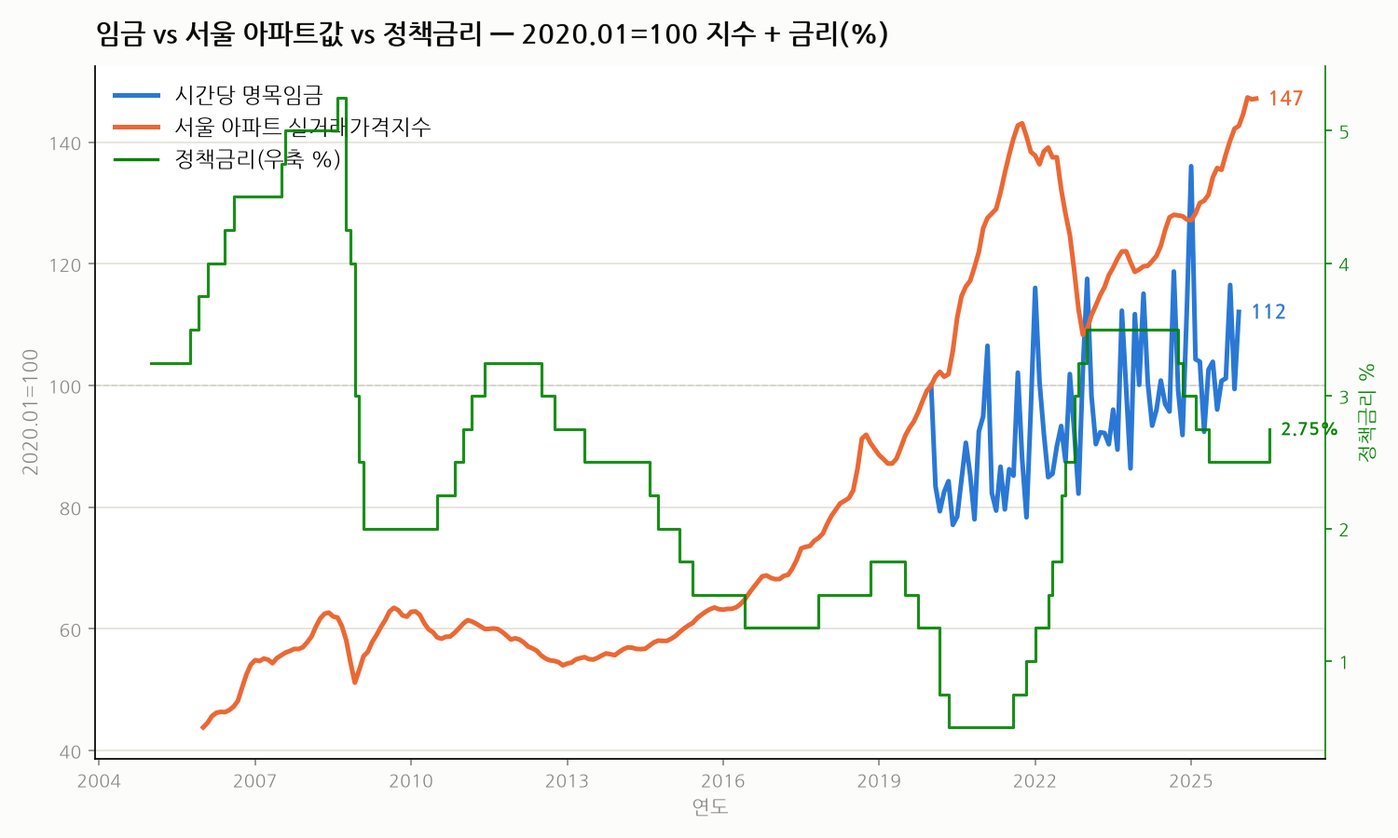
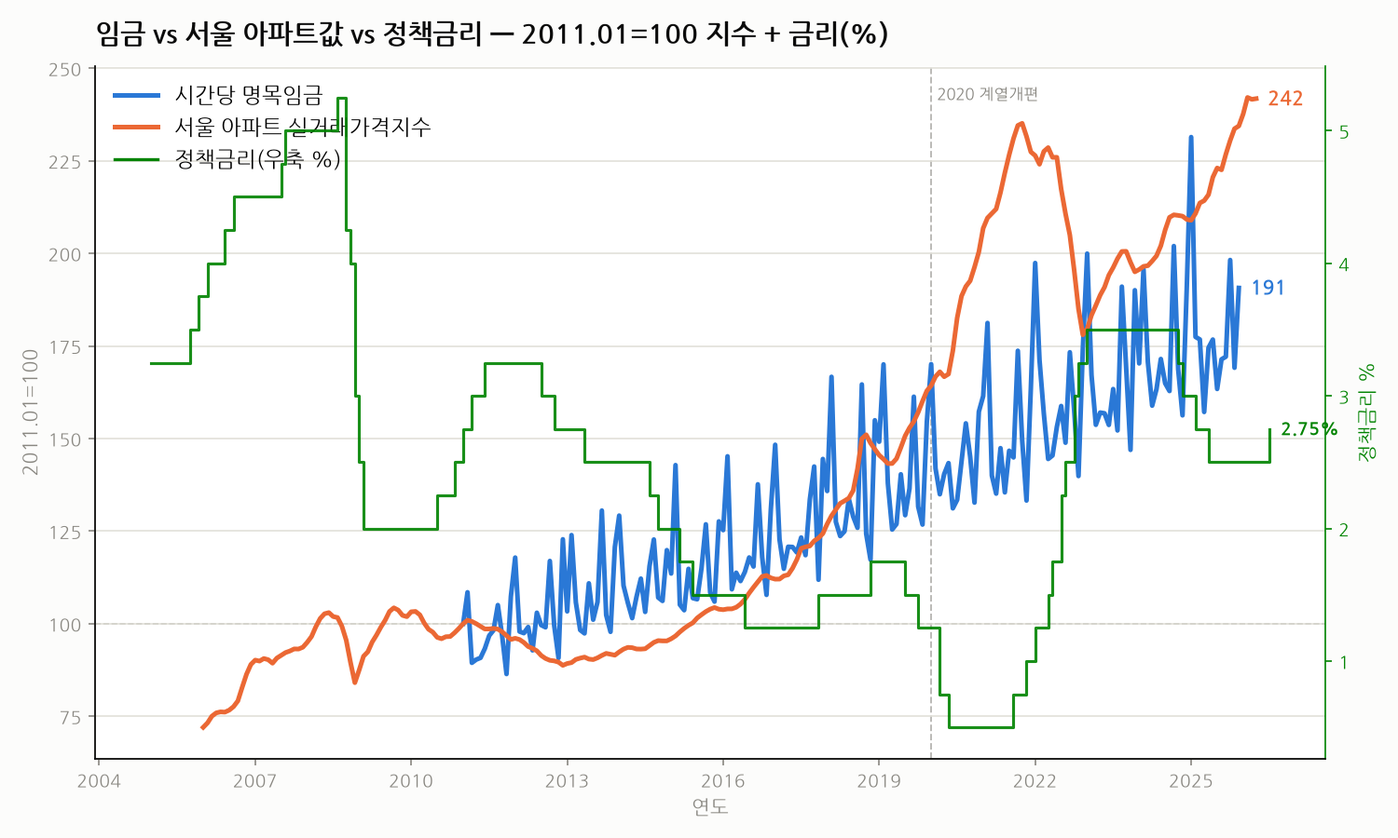
Extend wage back to 2011 (old KOSIS series) + mobile readability
임금 월별을 2011.1까지 확장하고 모바일 가독성을 개선.

- fetch_live.py: 임금 PAY/HRS URL을 여러 쌍(접미사 없음·2·3…)으로 받아 병합.
  신계열 DT_118N_MON051(2020~) + 구계열 DT_118N_MON041(2011~2019, 9차분류)로
  data/hourly_wage_monthly.csv 를 2011.01~2025.12(180개월)로 확장.
  ※ 2020년 표준산업분류 개편으로 구/신계열 수준 단절 있음(2019 ~21.5k → 2020 ~26k).
- build_charts.py: 임금 패널·지수비교 차트에 2020 계열개편 세로 점선 표시(_wage_break).
- chart.html: WAGE_M 2011~ 인라인 교체. makeMonthly/makeMonthlyMulti에 계열개편 마커
  지원. 히어로·임금패널에 2020 마커. 모바일(<640px)에서 히어로를 compact(작은 viewBox)로
  렌더해 글씨 확대, resize 시 재렌더. KPI·부제·범례·방법론을 2011~/계열단절 기준으로 갱신.
- README: 임금 커버리지·재수집 URL(구/신계열 2쌍) 갱신.

Claude-Session: https://claude.ai/code/session_012tRiB47oDk42VAh8iypbF1

diff --git a/wage_housing_rate/chart.html b/wage_housing_rate/chart.html
@@ -148,12 +148,12 @@
     <div>
       <p class="eyebrow">월별 실측 · KOSIS 원자료</p>
       <h1>시간당 임금 · 서울 아파트 실거래가격지수 · 정책금리</h1>
-      <p class="lede">세 지표를 <b>월별 실측치</b>로. 월별 임금 공식통계가 시작된 <b>2020년 1월 이후</b>,
+      <p class="lede">세 지표를 <b>월별 실측치</b>로. 공통 기준월 <b>2020년 1월(=100)</b> 대비,
         서울 아파트 실거래가격지수는 <b>+47%</b> 오른 반면 시간당 명목임금은 <b>+12%</b>에 그쳤습니다.
         그 사이 정책금리는 0.50%까지 내렸다가 3.50%까지 올랐습니다.</p>
       <p class="lede" style="margin-top:8px;font-size:13.5px;color:var(--muted)">
         최신월: 아파트 실거래가격지수 <b>2026.4</b> · 시간당 임금 <b>2025.12</b> · 기준금리 <b>2026.7</b>(2.75%).
-        월별 임금 공식통계는 <b>2020.1부터</b> 제공돼, 그 이전 구간은 비워 두었습니다.</p>
+        시간당 임금은 <b>2011.1부터</b> 표시하되, 2020년 산업분류 개편으로 <b>계열 단절(2019↔2020)</b>이 있어 표시해 둡니다.</p>
     </div>
     <button class="theme-btn" id="themeBtn" aria-label="테마 전환">
       <span id="themeIcon">◐</span><span id="themeTxt">테마</span>
@@ -167,7 +167,7 @@
     <p class="note">임금·아파트는 공통 출발선(2020.1=100, 왼쪽 축)에 놓아 상대 상승폭을 비교. 아파트는 그 이전(2006~)도 함께 표시돼 100 아래에서 시작합니다.
       단위가 다른 <b>정책금리는 오른쪽 축(%)</b>에 겹쳐 그렸습니다 — 2020~2021 저금리기에 집값이 급등한 흐름이 보입니다.</p>
     <div class="legend">
-      <span><i style="background:var(--wage)"></i>시간당 명목임금 (2020.1~, 좌)</span>
+      <span><i style="background:var(--wage)"></i>시간당 명목임금 (2011.1~, 좌)</span>
       <span><i style="background:var(--apt)"></i>서울 아파트 실거래가격지수 (2006.1~, 좌)</span>
       <span><i style="background:var(--rate)"></i>정책금리 (%, 우)</span>
     </div>
@@ -188,9 +188,9 @@
     <div class="card prose" style="margin-top:12px">
       <h3>지표 정의</h3>
       <ul>
-        <li><b>시간당 명목임금</b> — KOSIS 사업체노동력조사(<code>DT_118N_MON051</code>) 전산업·전규모(1인이상)의
-          <b>전체 임금총액 ÷ 전체 근로시간</b>(원/시간, <b>월별</b>). 임금총액에 상여·특별급여가 포함돼
-          1월·분기말 등 상여 지급월은 값이 크게 튑니다(계절성).</li>
+        <li><b>시간당 명목임금</b> — KOSIS 사업체노동력조사 전산업·전규모(1인이상)의 <b>전체 임금총액 ÷ 전체 근로시간</b>
+          (원/시간, <b>월별</b>). 2011~2019=구계열 <code>DT_118N_MON041</code>(9차분류), 2020~=신계열 <code>DT_118N_MON051</code>(10차분류)
+          — <b>2020년 개편으로 수준 단절</b>(차트에 세로선 표시). 임금총액에 상여·특별급여가 포함돼 상여 지급월은 값이 크게 튑니다(계절성).</li>
         <li><b>서울 아파트 실거래가격지수</b> — 한국부동산원 아파트 매매 실거래가격지수·서울
           (<code>DT_KAB_11672_S1</code>, <b>2017.11 = 100</b>, <b>월별</b>). 평균가(억원)가 아니라 지수입니다.</li>
         <li><b>정책금리</b> — 한국은행 <b>기준금리</b>(%). 변경 이력으로 구성한 <b>월말 유효금리</b>
@@ -201,9 +201,8 @@
         Artifact는 런타임 CSV 로드가 막혀 있어 값은 이 페이지에 인라인 임베드했습니다.</p>
       <h3>유의 사항</h3>
       <ul>
-        <li><b>월별 커버리지가 지표마다 다릅니다.</b> 시간당 임금 월별 공식통계는 <b>2020.1부터</b>,
-          아파트 실거래가격지수는 2006.1부터, 기준금리는 2005.1부터 제공됩니다.
-          받지 못한 구간은 <b>추정하지 않고 그대로 비워</b> 두었습니다.</li>
+        <li><b>월별 커버리지가 지표마다 다릅니다.</b> 시간당 임금은 <b>2011.1부터</b>(구계열 2011~2019 + 신계열 2020~),
+          아파트 실거래가격지수는 2006.1부터, 기준금리는 2005.1부터. 받지 못한 구간은 <b>추정하지 않고 그대로 비워</b> 두었습니다.</li>
         <li>지수 비교(히어로)는 두 계열이 모두 존재하는 <b>2020.1을 100</b>으로 맞춥니다.
           아파트는 2006~2019 구간도 함께 그려 100 아래에서 시작합니다.</li>
         <li>임금은 <b>명목</b>(물가 미반영)이며, 상여 포함으로 월 변동이 큽니다. 추세는 12개월 흐름으로 보세요.</li>
@@ -212,21 +211,22 @@
       <h3>출처 (KOSIS OpenAPI)</h3>
       <ul>
         <li>한국부동산원 아파트 매매 실거래가격지수 — <code>DT_KAB_11672_S1</code> (orgId 408, 서울, 월)</li>
-        <li>고용노동부 사업체노동력조사 임금총액·근로시간 — <code>DT_118N_MON051</code> (orgId 118, 전산업·전규모, 월)</li>
+        <li>고용노동부 사업체노동력조사 임금총액·근로시간 — <code>DT_118N_MON051</code>(2020~)·<code>DT_118N_MON041</code>(2011~2019), 전산업·전규모, 월</li>
         <li>한국은행 기준금리 변경 이력 (월말 유효금리)</li>
       </ul>
     </div>
   </details>
 
-  <footer>세 지표 월별 라인 차트 · 값은 KOSIS OpenAPI 월별 실측치(임금 2020.1~, 아파트 지수 2006.1~, 기준금리 2005.1~) · 인과 아닌 추세 비교용</footer>
+  <footer>세 지표 월별 라인 차트 · 값은 KOSIS OpenAPI 월별 실측치(임금 2011.1~, 아파트 지수 2006.1~, 기준금리 2005.1~) · 인과 아닌 추세 비교용</footer>
 </div>
 
 <script>
 // 월별 실측 (KOSIS OpenAPI, 인라인 임베드 — Artifact CSP상 런타임 CSV 로드 불가)
 // APT_M: 부동산원 아파트 매매 실거래가격지수·서울 (2017.11=100), 2006.01~2026.04
-// WAGE_M: 사업체노동력조사 전산업·전규모(1인이상) 시간당 임금 = 전체임금총액/전체근로시간(원/시간), 2020.01~2025.12
+// WAGE_M: 사업체노동력조사 전산업·전규모 시간당 임금(=전체임금총액/전체근로시간, 원/시간), 2011.01~2025.12
+// (2011~2019=구계열 9차분류, 2020~=신계열 10차분류. 2020 개편으로 수준 단절 있음)
 const APT_M  = [[2006.0000,58.47,"2006.01"],[2006.0833,59.45,"2006.02"],[2006.1667,60.92,"2006.03"],[2006.2500,61.64,"2006.04"],[2006.3333,61.87,"2006.05"],[2006.4167,61.81,"2006.06"],[2006.5000,62.24,"2006.07"],[2006.5833,63.01,"2006.08"],[2006.6667,64.26,"2006.09"],[2006.7500,67.26,"2006.10"],[2006.8333,70.13,"2006.11"],[2006.9167,72.26,"2006.12"],[2007.0000,73.21,"2007.01"],[2007.0833,73.00,"2007.02"],[2007.1667,73.56,"2007.03"],[2007.2500,73.31,"2007.04"],[2007.3333,72.54,"2007.05"],[2007.4167,73.66,"2007.06"],[2007.5000,74.27,"2007.07"],[2007.5833,74.86,"2007.08"],[2007.6667,75.21,"2007.09"],[2007.7500,75.67,"2007.10"],[2007.8333,75.64,"2007.11"],[2007.9167,76.04,"2007.12"],[2008.0000,77.11,"2008.01"],[2008.0833,78.38,"2008.02"],[2008.1667,80.54,"2008.03"],[2008.2500,82.34,"2008.04"],[2008.3333,83.38,"2008.05"],[2008.4167,83.63,"2008.06"],[2008.5000,82.76,"2008.07"],[2008.5833,82.55,"2008.08"],[2008.6667,80.67,"2008.09"],[2008.7500,77.61,"2008.10"],[2008.8333,72.69,"2008.11"],[2008.9167,68.26,"2008.12"],[2009.0000,71.06,"2009.01"],[2009.0833,74.06,"2009.02"],[2009.1667,75.04,"2009.03"],[2009.2500,77.18,"2009.04"],[2009.3333,78.72,"2009.05"],[2009.4167,80.44,"2009.06"],[2009.5000,81.97,"2009.07"],[2009.5833,83.89,"2009.08"],[2009.6667,84.68,"2009.09"],[2009.7500,84.18,"2009.10"],[2009.8333,83.02,"2009.11"],[2009.9167,82.74,"2009.12"],[2010.0000,83.81,"2010.01"],[2010.0833,83.89,"2010.02"],[2010.1667,83.13,"2010.03"],[2010.2500,81.34,"2010.04"],[2010.3333,79.98,"2010.05"],[2010.4167,79.34,"2010.06"],[2010.5000,78.20,"2010.07"],[2010.5833,77.90,"2010.08"],[2010.6667,78.34,"2010.09"],[2010.7500,78.39,"2010.10"],[2010.8333,79.20,"2010.11"],[2010.9167,80.15,"2010.12"],[2011.0000,81.20,"2011.01"],[2011.0833,81.96,"2011.02"],[2011.1667,81.69,"2011.03"],[2011.2500,81.20,"2011.04"],[2011.3333,80.62,"2011.05"],[2011.4167,80.03,"2011.06"],[2011.5000,80.05,"2011.07"],[2011.5833,80.16,"2011.08"],[2011.6667,80.01,"2011.09"],[2011.7500,79.40,"2011.10"],[2011.8333,78.60,"2011.11"],[2011.9167,77.73,"2011.12"],[2012.0000,78.00,"2012.01"],[2012.0833,77.73,"2012.02"],[2012.1667,77.08,"2012.03"],[2012.2500,76.19,"2012.04"],[2012.3333,75.79,"2012.05"],[2012.4167,75.25,"2012.06"],[2012.5000,74.22,"2012.07"],[2012.5833,73.57,"2012.08"],[2012.6667,73.17,"2012.09"],[2012.7500,73.04,"2012.10"],[2012.8333,72.77,"2012.11"],[2012.9167,72.06,"2012.12"],[2013.0000,72.46,"2013.01"],[2013.0833,72.66,"2013.02"],[2013.1667,73.36,"2013.03"],[2013.2500,73.65,"2013.04"],[2013.3333,73.87,"2013.05"],[2013.4167,73.44,"2013.06"],[2013.5000,73.33,"2013.07"],[2013.5833,73.71,"2013.08"],[2013.6667,74.24,"2013.09"],[2013.7500,74.68,"2013.10"],[2013.8333,74.48,"2013.11"],[2013.9167,74.30,"2013.12"],[2014.0000,75.01,"2014.01"],[2014.0833,75.62,"2014.02"],[2014.1667,76.00,"2014.03"],[2014.2500,75.94,"2014.04"],[2014.3333,75.65,"2014.05"],[2014.4167,75.63,"2014.06"],[2014.5000,75.70,"2014.07"],[2014.5833,76.39,"2014.08"],[2014.6667,77.10,"2014.09"],[2014.7500,77.49,"2014.10"],[2014.8333,77.43,"2014.11"],[2014.9167,77.43,"2014.12"],[2015.0000,77.89,"2015.01"],[2015.0833,78.51,"2015.02"],[2015.1667,79.39,"2015.03"],[2015.2500,80.17,"2015.04"],[2015.3333,80.84,"2015.05"],[2015.4167,81.39,"2015.06"],[2015.5000,82.45,"2015.07"],[2015.5833,83.18,"2015.08"],[2015.6667,83.85,"2015.09"],[2015.7500,84.39,"2015.10"],[2015.8333,84.74,"2015.11"],[2015.9167,84.38,"2015.12"],[2016.0000,84.27,"2016.01"],[2016.0833,84.44,"2016.02"],[2016.1667,84.45,"2016.03"],[2016.2500,84.79,"2016.04"],[2016.3333,85.49,"2016.05"],[2016.4167,86.52,"2016.06"],[2016.5000,87.92,"2016.07"],[2016.5833,89.18,"2016.08"],[2016.6667,90.38,"2016.09"],[2016.7500,91.56,"2016.10"],[2016.8333,91.78,"2016.11"],[2016.9167,91.24,"2016.12"],[2017.0000,90.97,"2017.01"],[2017.0833,90.98,"2017.02"],[2017.1667,91.68,"2017.03"],[2017.2500,91.93,"2017.04"],[2017.3333,93.35,"2017.05"],[2017.4167,95.26,"2017.06"],[2017.5000,97.72,"2017.07"],[2017.5833,98.04,"2017.08"],[2017.6667,98.24,"2017.09"],[2017.7500,99.35,"2017.10"],[2017.8333,100.00,"2017.11"],[2017.9167,100.96,"2017.12"],[2018.0000,103.07,"2018.01"],[2018.0833,104.87,"2018.02"],[2018.1667,106.21,"2018.03"],[2018.2500,107.58,"2018.04"],[2018.3333,108.13,"2018.05"],[2018.4167,108.73,"2018.06"],[2018.5000,110.40,"2018.07"],[2018.5833,115.17,"2018.08"],[2018.6667,121.76,"2018.09"],[2018.7500,122.63,"2018.10"],[2018.8333,120.81,"2018.11"],[2018.9167,119.46,"2018.12"],[2019.0000,118.15,"2019.01"],[2019.0833,117.29,"2019.02"],[2019.1667,116.31,"2019.03"],[2019.2500,116.32,"2019.04"],[2019.3333,117.39,"2019.05"],[2019.4167,119.82,"2019.06"],[2019.5000,122.39,"2019.07"],[2019.5833,124.15,"2019.08"],[2019.6667,125.54,"2019.09"],[2019.7500,127.56,"2019.10"],[2019.8333,129.99,"2019.11"],[2019.9167,132.26,"2019.12"],[2020.0000,133.42,"2020.01"],[2020.0833,135.38,"2020.02"],[2020.1667,136.44,"2020.03"],[2020.2500,135.35,"2020.04"],[2020.3333,135.94,"2020.05"],[2020.4167,141.05,"2020.06"],[2020.5000,148.26,"2020.07"],[2020.5833,153.02,"2020.08"],[2020.6667,155.14,"2020.09"],[2020.7500,156.39,"2020.10"],[2020.8333,159.38,"2020.11"],[2020.9167,162.71,"2020.12"],[2021.0000,167.91,"2021.01"],[2021.0833,170.17,"2021.02"],[2021.1667,171.15,"2021.03"],[2021.2500,172.13,"2021.04"],[2021.3333,175.76,"2021.05"],[2021.4167,180.06,"2021.06"],[2021.5000,184.01,"2021.07"],[2021.5833,187.59,"2021.08"],[2021.6667,190.45,"2021.09"],[2021.7500,190.92,"2021.10"],[2021.8333,188.04,"2021.11"],[2021.9167,184.65,"2021.12"],[2022.0000,183.84,"2022.01"],[2022.0833,181.94,"2022.02"],[2022.1667,184.76,"2022.03"],[2022.2500,185.59,"2022.04"],[2022.3333,183.45,"2022.05"],[2022.4167,183.47,"2022.06"],[2022.5000,176.48,"2022.07"],[2022.5833,171.10,"2022.08"],[2022.6667,166.42,"2022.09"],[2022.7500,158.72,"2022.10"],[2022.8333,150.21,"2022.11"],[2022.9167,144.54,"2022.12"],[2023.0000,145.87,"2023.01"],[2023.0833,148.85,"2023.02"],[2023.1667,150.99,"2023.03"],[2023.2500,153.24,"2023.04"],[2023.3333,154.99,"2023.05"],[2023.4167,157.61,"2023.06"],[2023.5000,159.30,"2023.07"],[2023.5833,161.25,"2023.08"],[2023.6667,162.82,"2023.09"],[2023.7500,162.85,"2023.10"],[2023.8333,160.44,"2023.11"],[2023.9167,158.35,"2023.12"],[2024.0000,158.86,"2024.01"],[2024.0833,159.55,"2024.02"],[2024.1667,159.70,"2024.03"],[2024.2500,160.72,"2024.04"],[2024.3333,161.86,"2024.05"],[2024.4167,164.07,"2024.06"],[2024.5000,167.54,"2024.07"],[2024.5833,170.30,"2024.08"],[2024.6667,170.85,"2024.09"],[2024.7500,170.72,"2024.10"],[2024.8333,170.56,"2024.11"],[2024.9167,169.83,"2024.12"],[2025.0000,169.66,"2025.01"],[2025.0833,171.14,"2025.02"],[2025.1667,173.45,"2025.03"],[2025.2500,173.96,"2025.04"],[2025.3333,175.27,"2025.05"],[2025.4167,179.10,"2025.06"],[2025.5000,181.12,"2025.07"],[2025.5833,180.71,"2025.08"],[2025.6667,184.13,"2025.09"],[2025.7500,187.15,"2025.10"],[2025.8333,189.73,"2025.11"],[2025.9167,190.34,"2025.12"],[2026.0000,192.96,"2026.01"],[2026.0833,196.59,"2026.02"],[2026.1667,196.18,"2026.03"],[2026.2500,196.33,"2026.04"]];
-const WAGE_M = [[2020.0000,25964,"2020.01"],[2020.0833,21664,"2020.02"],[2020.1667,20600,"2020.03"],[2020.2500,21433,"2020.04"],[2020.3333,21885,"2020.05"],[2020.4167,20020,"2020.06"],[2020.5000,20372,"2020.07"],[2020.5833,21954,"2020.08"],[2020.6667,23524,"2020.09"],[2020.7500,22150,"2020.10"],[2020.8333,20256,"2020.11"],[2020.9167,24003,"2020.12"],[2021.0000,24648,"2021.01"],[2021.0833,27662,"2021.02"],[2021.1667,21373,"2021.03"],[2021.2500,20627,"2021.04"],[2021.3333,22502,"2021.05"],[2021.4167,20678,"2021.06"],[2021.5000,22395,"2021.07"],[2021.5833,22119,"2021.08"],[2021.6667,26516,"2021.09"],[2021.7500,22822,"2021.10"],[2021.8333,20341,"2021.11"],[2021.9167,24968,"2021.12"],[2022.0000,30134,"2022.01"],[2022.0833,26131,"2022.02"],[2022.1667,23920,"2022.03"],[2022.2500,22055,"2022.04"],[2022.3333,22198,"2022.05"],[2022.4167,23374,"2022.06"],[2022.5000,24239,"2022.07"],[2022.5833,22725,"2022.08"],[2022.6667,26455,"2022.09"],[2022.7500,24049,"2022.10"],[2022.8333,21351,"2022.11"],[2022.9167,26613,"2022.12"],[2023.0000,30521,"2023.01"],[2023.0833,25513,"2023.02"],[2023.1667,23463,"2023.03"],[2023.2500,23968,"2023.04"],[2023.3333,23938,"2023.05"],[2023.4167,23458,"2023.06"],[2023.5000,24938,"2023.07"],[2023.5833,23230,"2023.08"],[2023.6667,29160,"2023.09"],[2023.7500,25815,"2023.10"],[2023.8333,22430,"2023.11"],[2023.9167,29012,"2023.12"],[2024.0000,25994,"2024.01"],[2024.0833,29885,"2024.02"],[2024.1667,26058,"2024.03"],[2024.2500,24253,"2024.04"],[2024.3333,24935,"2024.05"],[2024.4167,26177,"2024.06"],[2024.5000,25175,"2024.07"],[2024.5833,24856,"2024.08"],[2024.6667,30832,"2024.09"],[2024.7500,25752,"2024.10"],[2024.8333,23853,"2024.11"],[2024.9167,29203,"2024.12"],[2025.0000,35324,"2025.01"],[2025.0833,27087,"2025.02"],[2025.1667,26982,"2025.03"],[2025.2500,23992,"2025.04"],[2025.3333,26642,"2025.05"],[2025.4167,26977,"2025.06"],[2025.5000,24941,"2025.07"],[2025.5833,26162,"2025.08"],[2025.6667,26271,"2025.09"],[2025.7500,30257,"2025.10"],[2025.8333,25814,"2025.11"],[2025.9167,29105,"2025.12"]];
+const WAGE_M = [[2011.0000,15266,"2011.01"],[2011.0833,16561,"2011.02"],[2011.1667,13652,"2011.03"],[2011.2500,13784,"2011.04"],[2011.3333,13858,"2011.05"],[2011.4167,14241,"2011.06"],[2011.5000,14771,"2011.07"],[2011.5833,14995,"2011.08"],[2011.6667,16032,"2011.09"],[2011.7500,14751,"2011.10"],[2011.8333,13190,"2011.11"],[2011.9167,16380,"2011.12"],[2012.0000,17991,"2012.01"],[2012.0833,14941,"2012.02"],[2012.1667,14876,"2012.03"],[2012.2500,15128,"2012.04"],[2012.3333,14165,"2012.05"],[2012.4167,15717,"2012.06"],[2012.5000,15207,"2012.07"],[2012.5833,15117,"2012.08"],[2012.6667,17851,"2012.09"],[2012.7500,15196,"2012.10"],[2012.8333,13852,"2012.11"],[2012.9167,18745,"2012.12"],[2013.0000,15772,"2013.01"],[2013.0833,18918,"2013.02"],[2013.1667,16143,"2013.03"],[2013.2500,15006,"2013.04"],[2013.3333,14865,"2013.05"],[2013.4167,16929,"2013.06"],[2013.5000,15430,"2013.07"],[2013.5833,16159,"2013.08"],[2013.6667,19929,"2013.09"],[2013.7500,15622,"2013.10"],[2013.8333,14930,"2013.11"],[2013.9167,18423,"2013.12"],[2014.0000,19721,"2014.01"],[2014.0833,16835,"2014.02"],[2014.1667,16123,"2014.03"],[2014.2500,15494,"2014.04"],[2014.3333,16376,"2014.05"],[2014.4167,17123,"2014.06"],[2014.5000,15750,"2014.07"],[2014.5833,17637,"2014.08"],[2014.6667,18736,"2014.09"],[2014.7500,16343,"2014.10"],[2014.8333,16204,"2014.11"],[2014.9167,18297,"2014.12"],[2015.0000,17333,"2015.01"],[2015.0833,21803,"2015.02"],[2015.1667,16050,"2015.03"],[2015.2500,15820,"2015.04"],[2015.3333,17526,"2015.05"],[2015.4167,16317,"2015.06"],[2015.5000,16272,"2015.07"],[2015.5833,17554,"2015.08"],[2015.6667,19362,"2015.09"],[2015.7500,16551,"2015.10"],[2015.8333,16175,"2015.11"],[2015.9167,19482,"2015.12"],[2016.0000,19122,"2016.01"],[2016.0833,22166,"2016.02"],[2016.1667,16682,"2016.03"],[2016.2500,17367,"2016.04"],[2016.3333,17022,"2016.05"],[2016.4167,17398,"2016.06"],[2016.5000,17995,"2016.07"],[2016.5833,17622,"2016.08"],[2016.6667,21011,"2016.09"],[2016.7500,18005,"2016.10"],[2016.8333,16452,"2016.11"],[2016.9167,19985,"2016.12"],[2017.0000,22641,"2017.01"],[2017.0833,18732,"2017.02"],[2017.1667,17529,"2017.03"],[2017.2500,18437,"2017.04"],[2017.3333,18427,"2017.05"],[2017.4167,18200,"2017.06"],[2017.5000,18817,"2017.07"],[2017.5833,18089,"2017.08"],[2017.6667,20388,"2017.09"],[2017.7500,21745,"2017.10"],[2017.8333,17076,"2017.11"],[2017.9167,22055,"2017.12"],[2018.0000,20733,"2018.01"],[2018.0833,25442,"2018.02"],[2018.1667,19463,"2018.03"],[2018.2500,18877,"2018.04"],[2018.3333,19072,"2018.05"],[2018.4167,20408,"2018.06"],[2018.5000,19682,"2018.07"],[2018.5833,19217,"2018.08"],[2018.6667,25128,"2018.09"],[2018.7500,18973,"2018.10"],[2018.8333,17905,"2018.11"],[2018.9167,23652,"2018.12"],[2019.0000,22766,"2019.01"],[2019.0833,25955,"2019.02"],[2019.1667,21058,"2019.03"],[2019.2500,19146,"2019.04"],[2019.3333,19375,"2019.05"],[2019.4167,21424,"2019.06"],[2019.5000,19737,"2019.07"],[2019.5833,20841,"2019.08"],[2019.6667,24623,"2019.09"],[2019.7500,20090,"2019.10"],[2019.8333,19351,"2019.11"],[2019.9167,23592,"2019.12"],[2020.0000,25964,"2020.01"],[2020.0833,21664,"2020.02"],[2020.1667,20600,"2020.03"],[2020.2500,21433,"2020.04"],[2020.3333,21885,"2020.05"],[2020.4167,20020,"2020.06"],[2020.5000,20372,"2020.07"],[2020.5833,21954,"2020.08"],[2020.6667,23524,"2020.09"],[2020.7500,22150,"2020.10"],[2020.8333,20256,"2020.11"],[2020.9167,24003,"2020.12"],[2021.0000,24648,"2021.01"],[2021.0833,27662,"2021.02"],[2021.1667,21373,"2021.03"],[2021.2500,20627,"2021.04"],[2021.3333,22502,"2021.05"],[2021.4167,20678,"2021.06"],[2021.5000,22395,"2021.07"],[2021.5833,22119,"2021.08"],[2021.6667,26516,"2021.09"],[2021.7500,22822,"2021.10"],[2021.8333,20341,"2021.11"],[2021.9167,24968,"2021.12"],[2022.0000,30134,"2022.01"],[2022.0833,26131,"2022.02"],[2022.1667,23920,"2022.03"],[2022.2500,22055,"2022.04"],[2022.3333,22198,"2022.05"],[2022.4167,23374,"2022.06"],[2022.5000,24239,"2022.07"],[2022.5833,22725,"2022.08"],[2022.6667,26455,"2022.09"],[2022.7500,24049,"2022.10"],[2022.8333,21351,"2022.11"],[2022.9167,26613,"2022.12"],[2023.0000,30521,"2023.01"],[2023.0833,25513,"2023.02"],[2023.1667,23463,"2023.03"],[2023.2500,23968,"2023.04"],[2023.3333,23938,"2023.05"],[2023.4167,23458,"2023.06"],[2023.5000,24938,"2023.07"],[2023.5833,23230,"2023.08"],[2023.6667,29160,"2023.09"],[2023.7500,25815,"2023.10"],[2023.8333,22430,"2023.11"],[2023.9167,29012,"2023.12"],[2024.0000,25994,"2024.01"],[2024.0833,29885,"2024.02"],[2024.1667,26058,"2024.03"],[2024.2500,24253,"2024.04"],[2024.3333,24935,"2024.05"],[2024.4167,26177,"2024.06"],[2024.5000,25175,"2024.07"],[2024.5833,24856,"2024.08"],[2024.6667,30832,"2024.09"],[2024.7500,25752,"2024.10"],[2024.8333,23853,"2024.11"],[2024.9167,29203,"2024.12"],[2025.0000,35324,"2025.01"],[2025.0833,27087,"2025.02"],[2025.1667,26982,"2025.03"],[2025.2500,23992,"2025.04"],[2025.3333,26642,"2025.05"],[2025.4167,26977,"2025.06"],[2025.5000,24941,"2025.07"],[2025.5833,26162,"2025.08"],[2025.6667,26271,"2025.09"],[2025.7500,30257,"2025.10"],[2025.8333,25814,"2025.11"],[2025.9167,29105,"2025.12"]];
 
 // 정책금리 월별(실제): 한국은행 기준금리 변경 이력 → 월말 유효금리. 2026-07 = 2.75%(현재)
 const RATE_CHANGES = [["2005-01",3.25],["2005-10",3.50],["2005-12",3.75],["2006-02",4.00],["2006-06",4.25],
@@ -289,6 +289,9 @@ function makeMonthly(host, opts){
     const tx=el("text",{class:"tick",x:x(yr),y:H-8,"text-anchor":"middle"}); tx.textContent="’"+String(yr).slice(2);
     svg.appendChild(tx);
   }
+  (opts.marks||[]).forEach(function(mk){ const mx=x(mk[0]);
+    svg.appendChild(el("line",{x1:mx,x2:mx,y1:padT,y2:H-padB,stroke:"var(--axis)","stroke-width":1,"stroke-dasharray":"3 3",opacity:0.65}));
+    const tl=el("text",{class:"tick",x:mx+3,y:padT+10,"text-anchor":"start",fill:"var(--muted)"}); tl.textContent=mk[1]; svg.appendChild(tl); });
   // step-style line through monthly points
   let d="";
   pts.forEach(function(p,i){ d += (i===0?"M":" L")+x(p[0])+" "+y(p[1]); });
@@ -324,11 +327,11 @@ function makeMonthlyMulti(host, opts){
   // 여러 계열을 하나의 시간축에. 계열별 기간이 달라도 됨.
   // opts.series:[{points,color,name,axis?:'left'|'right',valFmt?,tipFmt?}]
   //   axis:'right' 계열은 오른쪽 % 축(단위가 다른 정책금리용). opts.yFmt(왼)·opts.yFmtR(오른).
-  const W = 760, H = opts.height || 300;
+  const W = opts.compact ? 480 : 760, H = opts.height || 300;
   const S = opts.series;
   const RS = S.filter(function(s){return s.axis==="right";});
   const hasR = RS.length>0;
-  const padL = 56, padR = hasR ? 50 : 60, padT = 14, padB = 26;
+  const padL = opts.compact?44:56, padR = hasR ? (opts.compact?42:50) : (opts.compact?24:60), padT = 14, padB = 26;
   let tMin=Infinity,tMax=-Infinity;
   S.forEach(function(s){ s.points.forEach(function(p){ if(p[0]<tMin)tMin=p[0]; if(p[0]>tMax)tMax=p[0]; }); });
   function rng(arr){ let a=Infinity,b=-Infinity; arr.forEach(function(s){s.points.forEach(function(p){ if(p[1]<a)a=p[1]; if(p[1]>b)b=p[1]; });}); const sp=(b-a)||1; return [a-sp*0.10,b+sp*0.10]; }
@@ -350,6 +353,9 @@ function makeMonthlyMulti(host, opts){
     const tx=el("text",{class:"tick",x:W-padR+8,y:yR(t)+4,"text-anchor":"start",fill:RS[0].color}); tx.textContent=(opts.yFmtR||opts.yFmt)(t); svg.appendChild(tx); }); }
   for(let yr=Math.ceil(tMin);yr<=Math.floor(tMax);yr++){ if(yr%3!==0)continue;
     const tx=el("text",{class:"tick",x:x(yr),y:H-8,"text-anchor":"middle"}); tx.textContent="’"+String(yr).slice(2); svg.appendChild(tx); }
+  (opts.marks||[]).forEach(function(mk){ const mx=x(mk[0]);
+    svg.appendChild(el("line",{x1:mx,x2:mx,y1:padT,y2:H-padB,stroke:"var(--axis)","stroke-width":1,"stroke-dasharray":"3 3",opacity:0.65}));
+    const tl=el("text",{class:"tick",x:mx+3,y:padT+10,"text-anchor":"start",fill:"var(--muted)"}); tl.textContent=mk[1]; svg.appendChild(tl); });
   S.forEach(function(s){
     const yf=ay(s), vf=s.valFmt||opts.valFmt;
     let d=""; s.points.forEach(function(p,i){ d+=(i===0?"M":" L")+x(p[0])+" "+yf(p[1]); });
@@ -399,7 +405,7 @@ const pct=function(v){return (v%1===0?v.toFixed(0):v.toFixed(2))+"";};
 // ---------- render KPIs (월별 실측·최신월 기준) ----------
 document.getElementById("kpis").innerHTML =
  kpiCard("var(--wage)","시간당 명목임금 ("+WAGE_LAST[2]+")", WAGE_LAST[1].toLocaleString()+"원",
-   "월별 실측(2020.1~) · 2020.1=100 지수 <b>"+Math.round(WAGE_IDX_M[WAGE_IDX_M.length-1][1])+"</b> · 상여 지급월(1·분기말) 급등 포함") +
+   "월별 실측(2011.1~) · 2020.1=100 지수 <b>"+Math.round(WAGE_IDX_M[WAGE_IDX_M.length-1][1])+"</b> · 상여 지급월(1·분기말) 급등 포함") +
  kpiCard("var(--apt)","서울 아파트 실거래가격지수 ("+APT_LAST[2]+")", APT_LAST[1].toFixed(1),
    '2017.11=100 · 2020.1 대비 <span class="up">'+APT_UP_20+"%</span> (임금 +"+WAGE_UP_20+"%를 크게 앞섬)") +
  kpiCard("var(--rate)","정책금리 (기준금리)","2.75%",
@@ -413,6 +419,8 @@ function kpiCard(color,lab,val,sub){
 function renderHero(){
   makeMonthlyMulti(document.getElementById("heroHost"), {
     height: 300,
+    compact: window.innerWidth < 640,
+    marks: [[2020.0, "임금 계열개편"]],
     series:[
       {points:WAGE_IDX_M, color:cssVar("--wage")||"#2a78d6", name:"임금"},
       {points:APT_IDX_M,  color:cssVar("--apt")||"#eb6834", name:"아파트"},
@@ -427,13 +435,13 @@ renderHero();
 
 // ---------- 3 small-multiple panels ----------
 const panelDefs=[
-  {t:"① 시간당 명목임금", u:"원/시간 · 월별(2020.1~2025.12)", points:WAGE_M, color:"--wage", yFmt:function(v){return (v/1000).toFixed(0)+"천";}, valFmt:won, tipFmt:function(v){return won(v)+"원";}},
+  {t:"① 시간당 명목임금", u:"원/시간 · 월별(2011.1~2025.12)", points:WAGE_M, color:"--wage", marks:[[2020.0,"계열개편"]], yFmt:function(v){return (v/1000).toFixed(0)+"천";}, valFmt:won, tipFmt:function(v){return won(v)+"원";}},
   {t:"② 서울 아파트 실거래가격지수", u:"2017.11=100 · 월별(2006.1~2026.4)", points:APT_M, color:"--apt", yFmt:function(v){return v.toFixed(0);}, valFmt:function(v){return v.toFixed(1);}, tipFmt:function(v){return v.toFixed(1);}},
   {t:"③ 정책금리 (기준금리)", u:"% · 월별(2026.07까지)", points:RATE_M, color:"--rate", yFmt:function(v){return v.toFixed(0);}, valFmt:function(v){return v.toFixed(2);}, tipFmt:function(v){return v.toFixed(2)+"%";}}
 ];
 function renderPanel(p, host){
   makeMonthly(host,{ height:250, compact:true, points:p.points, color:cssVar(p.color),
-    yFmt:p.yFmt, valFmt:p.valFmt, tipFmt:p.tipFmt, yTicks:4 });
+    marks:p.marks, yFmt:p.yFmt, valFmt:p.valFmt, tipFmt:p.tipFmt, yTicks:4 });
 }
 const panelsEl=document.getElementById("panels");
 panelDefs.forEach(function(p){
@@ -474,6 +482,7 @@ panelDefs.forEach(function(p){
   apply(cur());
   btn.addEventListener("click",function(){ apply(cur()==="dark"?"light":"dark"); rerender(); });
 })();
+let _rsz; window.addEventListener("resize", function(){ clearTimeout(_rsz); _rsz=setTimeout(rerender, 200); });
 function rerender(){
   document.getElementById("heroHost").innerHTML="";
   document.getElementById("panels").innerHTML="";

diff --git a/wage_housing_rate/src/fetch_live.py b/wage_housing_rate/src/fetch_live.py
@@ -122,23 +122,33 @@ def main():
     else:
         print("KOSIS_APT_URL 미설정 — 서울 아파트 월별 건너뜀")
 
-    # 3) 시간당 임금 — KOSIS URL(단일) 또는 임금총액/근로시간 두 URL
-    wage_url = os.environ.get("KOSIS_WAGE_URL")
-    pay_url = os.environ.get("KOSIS_WAGE_PAY_URL")
-    hrs_url = os.environ.get("KOSIS_WAGE_HRS_URL")
+    # 3) 시간당 임금 — 시간당 URL(단일) 또는 임금총액/근로시간 두 URL.
+    #    여러 기간(구계열/신계열)을 잇고 싶으면 PAY/HRS URL을 접미사 없이·2·3… 로 여러 쌍 지정.
+    #    예) KOSIS_WAGE_PAY_URL2/HRS_URL2 = 구계열(DT_118N_MON041, 2011~2019).
+    #    ※ 2020년 표준산업분류 개편으로 구계열(~2019)과 신계열(2020~)은 수준 단절이 있으니 주의.
     try:
+        wage = {}
+        wage_url = os.environ.get("KOSIS_WAGE_URL")
         if wage_url:
-            wage = fetch_kosis(wage_url)
-        elif pay_url and hrs_url:
-            pay, hrs = fetch_kosis(pay_url), fetch_kosis(hrs_url)
-            wage = {m: round(pay[m] / hrs[m]) for m in (pay.keys() & hrs.keys()) if hrs[m]}
-        else:
-            wage = None
-            print("KOSIS_WAGE_URL(또는 PAY/HRS URL) 미설정 — 시간당 임금 월별 건너뜀")
+            wage.update(fetch_kosis(wage_url))
+        for sfx in ("", "2", "3", "4"):
+            pu = os.environ.get("KOSIS_WAGE_PAY_URL" + sfx)
+            hu = os.environ.get("KOSIS_WAGE_HRS_URL" + sfx)
+            if pu and hu:
+                pay, hrs = fetch_kosis(pu), fetch_kosis(hu)
+                seg = {m: round(pay[m] / hrs[m]) for m in (pay.keys() & hrs.keys()) if hrs[m]}
+                # 이미 있는 달은 덮어쓰지 않음(먼저 온 신계열 우선)
+                for m, v in seg.items():
+                    wage.setdefault(m, v)
         if wage:
             _write(os.path.join(DATA, "hourly_wage_monthly.csv"),
-                   "month,hourly_wage_won", "시간당 명목임금 월별 — KOSIS(사업체노동력조사)", wage)
+                   "month,hourly_wage_won",
+                   "시간당 명목임금 월별 — KOSIS 사업체노동력조사(임금총액/근로시간). "
+                   "2011~2019=구계열(9차분류), 2020~=신계열(10차분류): 2020 개편으로 수준 단절 있음",
+                   wage)
             did.append("hourly_wage")
+        else:
+            print("KOSIS_WAGE_URL(또는 PAY/HRS URL) 미설정 — 시간당 임금 월별 건너뜀")
     except Exception as e:  # noqa: BLE001
         print(f"임금 수집 실패: {e}")
 

diff --git a/wage_housing_rate/build_charts.py b/wage_housing_rate/build_charts.py
@@ -75,6 +75,17 @@ def get_series(monthly_name: str, annual_name: str, valcol: str):
     return a[["t", "v"]].dropna().sort_values("t").reset_index(drop=True), "annual"
 
 
+def _wage_break(ax, wage, label=True):
+    """임금 계열개편(2020년 표준산업분류 10차 개편) 지점에 세로 점선 표시."""
+    if wage["t"].min() < 2020 < wage["t"].max():
+        ax.axvline(2020, color=MUTED, linewidth=0.9, linestyle="--", alpha=0.6, zorder=1)
+        if label:
+            ax.annotate(L("2020 계열개편", "2020 series break"),
+                        xy=(2020, 0.97), xycoords=ax.get_xaxis_transform(),
+                        xytext=(3, 0), textcoords="offset points",
+                        ha="left", va="top", fontsize=8, color=MUTED)
+
+
 def _style_axis(ax):
     ax.grid(True, axis="y", color=GRID, linewidth=0.8, zorder=0)
     for s in ("top", "right"):
@@ -116,6 +127,7 @@ def fig_three_panels(wage, wmode, apt, amode, rate, rmode):
     axes[0].set_title(L("① 시간당 명목임금", "1) Hourly nominal wage"),
                       fontsize=12, color=INK, loc="left", pad=8)
     axes[0].set_ylabel(L("원 / 시간", "KRW / hour"), fontsize=10, color=MUTED)
+    _wage_break(axes[0], wage)
 
     _plot_series(axes[1], apt, amode, C_APT, lambda v: f"{v:,.1f}")
     axes[1].set_title(L("② 서울 아파트 실거래가격지수", "2) Seoul apt. real-transaction price index"),
@@ -167,6 +179,7 @@ def fig_indexed(wage, wmode, apt, amode, rate, rmode):
                     xytext=(6, 0), textcoords="offset points", va="center",
                     fontsize=10, color=color, fontweight="bold")
     ax.axhline(100, color=MUTED, linewidth=0.8, linestyle="--", zorder=1)
+    _wage_break(ax, wage)
     _style_axis(ax)
     ax.set_ylabel(f"{base}=100", fontsize=10, color=MUTED)
     ax.set_xlabel(L("연도", "Year"), fontsize=10, color=MUTED)

diff --git a/wage_housing_rate/README.md b/wage_housing_rate/README.md
@@ -14,7 +14,7 @@
 
 ## 한눈에 보기
 
-- 월별 임금 공식통계가 시작된 **2020.1 이후**, 서울 아파트 실거래가격지수는 **+47%**(지수 100→147),
+- 2020.1(공통 기준월) 이후, 서울 아파트 실거래가격지수는 **+47%**(지수 100→147),
   시간당 명목임금은 **+12%**(지수 100→112)로 아파트값이 임금을 크게 앞질렀습니다.
 - 아파트 실거래가격지수(서울)는 2006.1 58.5 → 2021 고점 → 2022 조정 → **2026.4 196.3**.
 - 정책금리는 2020년 0.50% 저점 → 2023년 3.50% → **2026.7 2.75%**.
@@ -25,7 +25,7 @@
 | 지표 | 표 | 주기·기간 |
 |---|---|---|
 | 서울 아파트 실거래가격지수 | KOSIS `DT_KAB_11672_S1` (orgId 408, 서울) | 월 · 2006.01 ~ 2026.04 |
-| 시간당 임금(임금총액/근로시간) | KOSIS `DT_118N_MON051` (orgId 118, 전산업·전규모) | 월 · 2020.01 ~ 2025.12 |
+| 시간당 임금(임금총액/근로시간) | KOSIS `DT_118N_MON041`(2011~2019, 9차분류) + `DT_118N_MON051`(2020~, 10차분류), 전산업·전규모 | 월 · 2011.01 ~ 2025.12 |
 | 기준금리(월말 유효금리) | 한국은행 변경 이력 | 월 · 2005.01 ~ 2026.07 |
 
 ## 실행
@@ -56,10 +56,15 @@ EP='https://kosis.kr/openapi/Param/statisticsParameterData.do?method=getList&for
 # 서울 아파트 실거래가격지수 (지수 항목 itmId=T1, 서울 objL1=030)
 export KOSIS_APT_URL="$EP&apiKey=$KEY&orgId=408&tblId=DT_KAB_11672_S1&prdSe=M&startPrdDe=200601&endPrdDe=202612&objL1=030&itmId=T1&objL2=&objL3=&objL4=&objL5=&objL6=&objL7=&objL8="
 
-# 시간당 임금 = 전체임금총액(MD_12) ÷ 전체근로시간(MD_7), 전산업(objL1)·전규모(objL2=size01)
-WBASE="$EP&apiKey=$KEY&orgId=118&tblId=DT_118N_MON051&prdSe=M&startPrdDe=202001&endPrdDe=202512&objL1=190326INDUSTRY_10S0&objL2=size01&objL3=&objL4=&objL5=&objL6=&objL7=&objL8="
-export KOSIS_WAGE_PAY_URL="$WBASE&itmId=13103110311MD_12"
-export KOSIS_WAGE_HRS_URL="$WBASE&itmId=13103110311MD_7"
+# 시간당 임금 = 전체임금총액(MD_12) ÷ 전체근로시간(MD_7), 전산업·전규모(objL2=size01)
+# 신계열 2020~ (MON051, 10차분류 전체=190326INDUSTRY_10S0)
+WNEW="$EP&apiKey=$KEY&orgId=118&tblId=DT_118N_MON051&prdSe=M&startPrdDe=202001&endPrdDe=202512&objL1=190326INDUSTRY_10S0&objL2=size01&objL3=&objL4=&objL5=&objL6=&objL7=&objL8="
+export KOSIS_WAGE_PAY_URL="$WNEW&itmId=13103110311MD_12"
+export KOSIS_WAGE_HRS_URL="$WNEW&itmId=13103110311MD_7"
+# 구계열 2011~2019 (MON041, 9차분류 전체=15118INDUSTRY_9S0) — 2020 개편 전 구간
+WOLD="$EP&apiKey=$KEY&orgId=118&tblId=DT_118N_MON041&prdSe=M&startPrdDe=201101&endPrdDe=201912&objL1=15118INDUSTRY_9S0&objL2=size01&objL3=&objL4=&objL5=&objL6=&objL7=&objL8="
+export KOSIS_WAGE_PAY_URL2="$WOLD&itmId=13103110311MD_12"
+export KOSIS_WAGE_HRS_URL2="$WOLD&itmId=13103110311MD_7"
 
 python src/fetch_live.py      # → data/seoul_apt_monthly.csv, data/hourly_wage_monthly.csv
 python build_charts.py        # → 세 지표 모두 월별로 재생성
